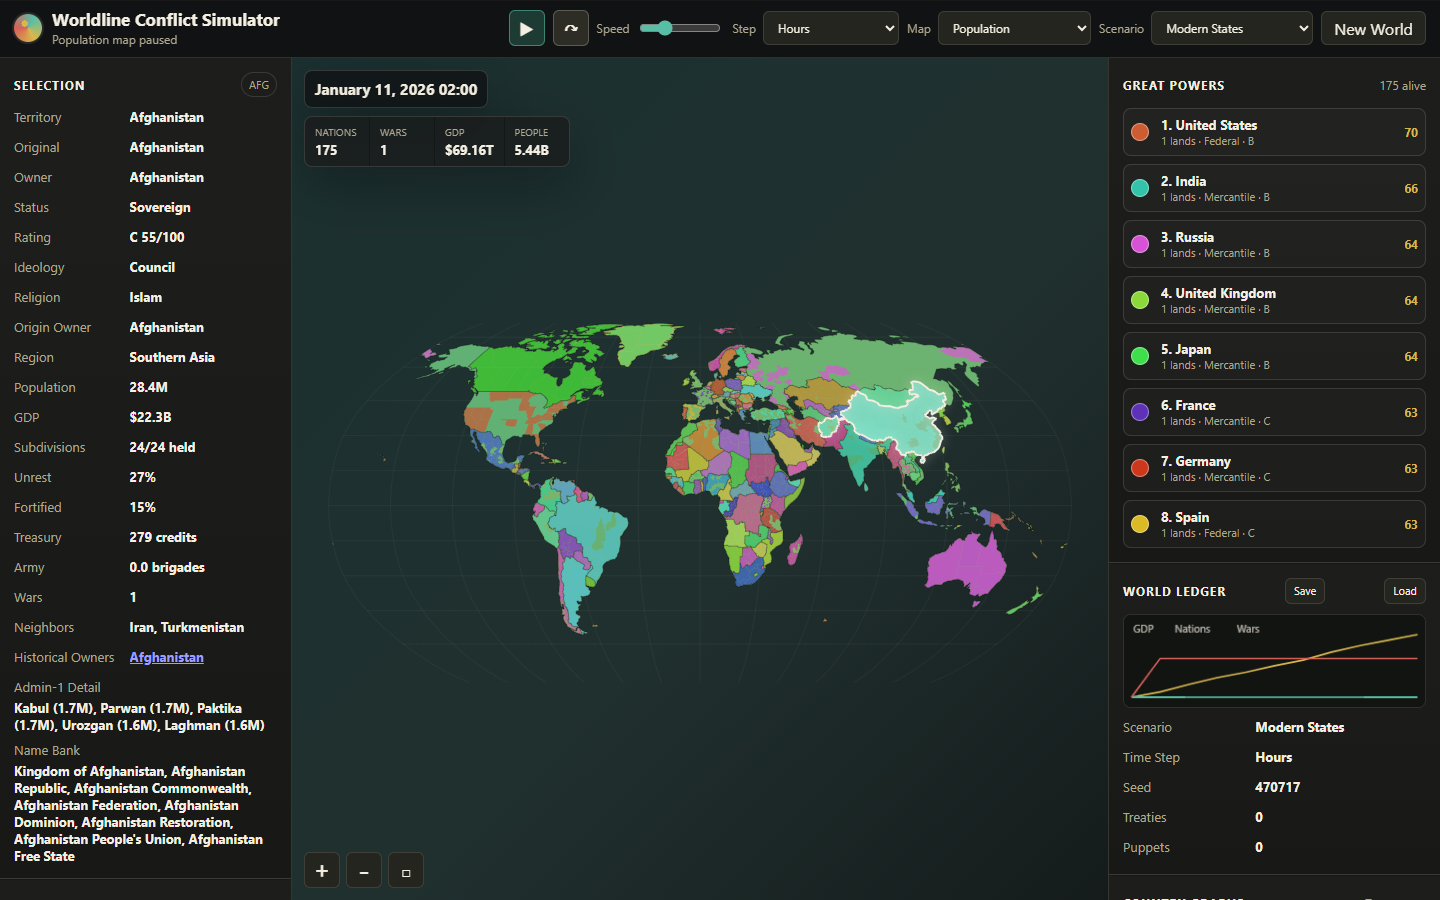
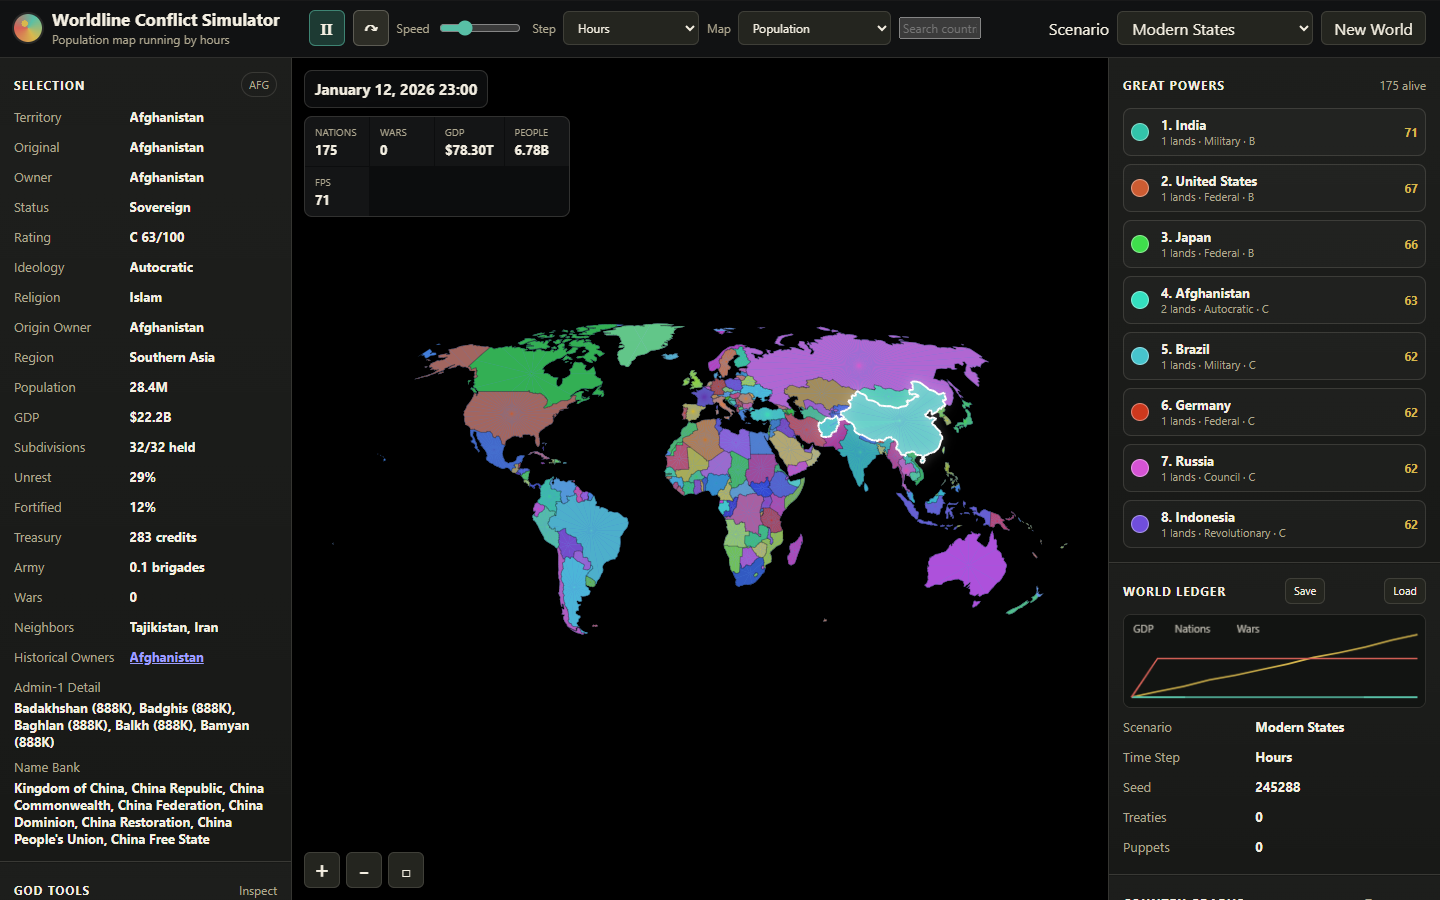
yussssss

diff --git a/src/main.js b/src/main.js
@@ -150,6 +150,7 @@ const MAP_MODES = {
   population: "Population",
   wars: "War Fronts",
   warAlliances: "Wars & Alliances",
+  landmass: "Landmass",
 };
 
 const ADMIN1_SUMMARY = window.WORLD_ADMIN1_SUMMARY || { byIso: {}, byIso3: {}, byAdmin: {}, meta: null };
@@ -243,7 +244,7 @@ const state = {
   hour: 0,
   elapsedHours: 0,
   lastHistoryHours: null,
-  running: true,
+  running: false,
   speed: 4,
   timeStepHours: 1,
   scenario: "historic",
@@ -264,6 +265,9 @@ const state = {
   animationHandle: null,
   animationTime: 0,
   lastMapAnimation: 0,
+  fps: 0,
+  fpsCounter: 0,
+  lastFpsTime: 0,
   // unit system removed
   segmentMapCache: null,
   segmentMapDirty: false,
@@ -915,6 +919,8 @@ function initializeGame({ scenario = state.scenario, seed = Math.floor(Math.rand
   if (scenario === "continental") buildContinentalScenario();
   if (scenario === "fractured") buildSeededScenario(74, "fractured");
   if (scenario === "rome") buildRomeScenario();
+  if (scenario === "paxromana") buildPaxRomanaScenario();
+  if (scenario === "romanschism") buildRomanSchismScenario();
   if (scenario === "medieval") buildMedievalScenario();
   if (scenario === "crusades") buildCrusadesScenario();
   if (scenario === "ww2") buildWW2Scenario();
@@ -1084,6 +1090,46 @@ function buildRomeScenario() {
   );
   createScenarioNation("Parthian Shahdom", territoriesWhere((territory) => /Iran|Iraq|Afghanistan|Pakistan|Turkmenistan/.test(territory.originalName)), "Autocratic", { capitalName: "Iran", ambition: 0.7 });
   createScenarioNation("Germanic Confederation", territoriesWhere((territory) => /Germany|Poland|Czechia|Netherlands|Denmark|Sweden|Norway/.test(territory.originalName)), "Council", { capitalName: "Germany" });
+  createScenarioNation("Nile Kingdoms", territoriesWhere((territory) => /Sudan|Ethiopia|Eritrea|Somalia/.test(territory.originalName)), "Mercantile", { capitalName: "Ethiopia" });
+  fillRemainingWithRegionalStates("Tribal");
+}
+
+function buildPaxRomanaScenario() {
+  // Pax Romana: Unified Roman Empire at its height
+  createScenarioNation(
+    "Roman Empire",
+    territoriesWhere((territory) =>
+      territory.continent === "Europe" &&
+      /Italy|France|Spain|Portugal|Greece|Croatia|Slovenia|Bosnia|Serbia|Montenegro|Albania|Macedonia|Bulgaria|Romania|Turkey|Germany|Poland|Czechia|Netherlands|Denmark|Sweden|Norway|United Kingdom|Ireland/.test(territory.originalName),
+    ).concat(territoriesWhere((territory) => /Northern Africa|Western Asia/.test(territory.region) && /Egypt|Libya|Tunisia|Algeria|Morocco|Syria|Jordan|Israel|Lebanon|Iraq/.test(territory.originalName))),
+    "Autocratic",
+    { capitalName: "Italy", ambition: 0.9, stability: 0.8, treasury: 800 },
+  );
+  createScenarioNation("Parthian Shahdom", territoriesWhere((territory) => /Iran|Afghanistan|Pakistan|Turkmenistan/.test(territory.originalName)), "Autocratic", { capitalName: "Iran", ambition: 0.6 });
+  createScenarioNation("Nile Kingdoms", territoriesWhere((territory) => /Sudan|Ethiopia|Eritrea|Somalia/.test(territory.originalName)), "Mercantile", { capitalName: "Ethiopia" });
+  fillRemainingWithRegionalStates("Tribal");
+}
+
+function buildRomanSchismScenario() {
+  // After the Great Schism: Western and Eastern Roman Empires
+  createScenarioNation(
+    "Western Roman Empire",
+    territoriesWhere((territory) =>
+      /Italy|France|Spain|Portugal|Germany|Poland|Czechia|Netherlands|Denmark|Sweden|Norway|United Kingdom|Ireland/.test(territory.originalName),
+    ),
+    "Autocratic",
+    { capitalName: "Italy", ambition: 0.7, stability: 0.5, treasury: 300 },
+  );
+  createScenarioNation(
+    "Eastern Roman Empire",
+    territoriesWhere((territory) =>
+      /Greece|Croatia|Slovenia|Bosnia|Serbia|Montenegro|Albania|Macedonia|Bulgaria|Romania|Turkey/.test(territory.originalName),
+    ).concat(territoriesWhere((territory) => /Northern Africa|Western Asia/.test(territory.region) && /Egypt|Libya|Tunisia|Algeria|Morocco|Syria|Jordan|Israel|Lebanon|Iraq/.test(territory.originalName))),
+    "Autocratic",
+    { capitalName: "Greece", ambition: 0.75, stability: 0.55, treasury: 400 },
+  );
+  createScenarioNation("Parthian Shahdom", territoriesWhere((territory) => /Iran|Afghanistan|Pakistan|Turkmenistan/.test(territory.originalName)), "Autocratic", { capitalName: "Iran", ambition: 0.7 });
+  createScenarioNation("Germanic Confederation", territoriesWhere((territory) => /Austria|Switzerland|Belgium|Luxembourg/.test(territory.originalName)), "Council", { capitalName: "Austria" });
   createScenarioNation("Nile Kingdoms", territoriesWhere((territory) => /Sudan|Ethiopia|Eritrea|Somalia/.test(territory.originalName)), "Mercantile", { capitalName: "Ethiopia" });
   fillRemainingWithRegionalStates("Tribal");
 }
@@ -2801,6 +2847,13 @@ function startVisualLoop() {
   if (state.animationHandle) window.cancelAnimationFrame(state.animationHandle);
   const frame = (time) => {
     state.animationTime = time / 1000;
+    // Calculate FPS
+    state.fpsCounter++;
+    if (time - state.lastFpsTime >= 1000) {
+      state.fps = state.fpsCounter;
+      state.fpsCounter = 0;
+      state.lastFpsTime = time;
+    }
     if (time - state.lastMapAnimation > 120 && hasActiveFrontVisuals()) {
       state.lastMapAnimation = time;
       renderMap();
@@ -3071,8 +3124,8 @@ function drawOcean(toCtx = ctx, toCanvas = canvas) {
 
 function drawGraticule(toCtx = ctx, toCanvas = canvas) {
   toCtx.save();
-  toCtx.strokeStyle = "rgba(255,255,255,0.065)";
-  toCtx.lineWidth = 0.6;
+  toCtx.strokeStyle = "rgba(255,255,255,0.12)";
+  toCtx.lineWidth = 1.2;
   for (let lon = -180; lon <= 180; lon += 30) {
     const path = new Path2D();
     for (let lat = -80; lat <= 85; lat += 4) {
@@ -3234,6 +3287,9 @@ function fillForTerritory(territory, mode) {
     if (owner.allies.size) return "#4d7ec4";
     if (owner.puppets.size || owner.overlordId) return "#d8b84d";
     return owner.color;
+  }
+  if (mode === "landmass") {
+    return "#8B4513"; // Brown color for land
   }
   return owner.color;
 }
@@ -4050,6 +4106,7 @@ function renderStats() {
     statChip("Wars", wars.length),
     statChip("GDP", formatMoney(gdp)),
     statChip("People", formatPopulation(population)),
+    statChip("FPS", state.fps),
   ].join("");
   els.ledgerStats.innerHTML = detailRows([
     ["Scenario", scenarioName(state.scenario)],
@@ -4072,6 +4129,8 @@ function scenarioName(id) {
     fractured: "Fractured Empires",
     ww2: "World War II",
     rome: "Roman Europe",
+    paxromana: "Pax Romana",
+    romanschism: "Roman Schism",
     medieval: "Medieval Realms",
     coldwar: "Cold War Blocs",
     napoleonic: "Napoleonic Europe",

diff --git a/index.html b/index.html
@@ -49,6 +49,7 @@
               <option value="population">Population</option>
               <option value="wars">War Fronts</option>
               <option value="warAlliances">Wars & Alliances</option>
+              <option value="landmass">Landmass</option>
             </select>
           </label>
           <label class="control-field compact">
@@ -62,6 +63,8 @@
               <option value="fractured">Fractured Empires</option>
               <option value="ww2">WWII</option>
               <option value="rome">Roman Europe</option>
+              <option value="paxromana">Pax Romana</option>
+              <option value="romanschism">Roman Schism</option>
               <option value="medieval">Medieval Realms</option>
               <option value="crusades">Crusades</option>
               <option value="coldwar">Cold War Blocs</option>

diff --git a/tools/smoke-check.js b/tools/smoke-check.js
@@ -230,7 +230,7 @@ async function main() {
     !initial.mapModes.includes("puppets") ||
     !initial.mapModes.includes("religions")
   ) process.exit(2);
-  if (!["rome", "medieval", "coldwar", "napoleonic"].every((scenario) => initial.scenarios.includes(scenario))) process.exit(11);
+  if (!["rome", "paxromana", "romanschism", "medieval", "coldwar", "napoleonic"].every((scenario) => initial.scenarios.includes(scenario))) process.exit(11);
   if (initial.universalNames < 100 || initial.territoriesWithFiveNames !== initial.territoryCount) process.exit(8);
   if (!forcedWar.started) process.exit(3);
   if (

diff --git a/README.md b/README.md
@@ -25,7 +25,7 @@ If the Windows `node` app alias is blocked, use any local static server from thi
 - Hour-based simulation clock with selectable hour, day, week, and month steps
 - AI nations with ideology, tax, conscription, stability, legitimacy, tech, treasury, armies, and ambition
 - Diplomacy with alliances, rivals, puppet states, relations, ceasefires, and peace
-- Alliance, puppet, religion, population, GDP, stability, unrest, and war-front map modes
+- Alliance, puppet, religion, population, GDP, stability, unrest, war-front, war-alliances, and landmass map modes
 - Border wars with animated front pressure, live contested borders, admin-1 occupation, conquest, capitulation, annexation, and puppet outcomes
 - Economy with GDP growth, infrastructure, trade access, debt pressure, war exhaustion, unrest, tribute, maintenance, and recruitment
 - Domestic ideological shifts driven by war exhaustion, debt, unrest, prosperity, diplomacy, and legitimacy
@@ -34,6 +34,7 @@ If the Windows `node` app alias is blocked, use any local static server from thi
 - Revolts and civil wars driven by unrest and instability
 - God tools for annexing, liberating, boosting, agitating, fortifying, stabilizing, funding rebels, puppeting, and inciting wars
 - Save/load through browser local storage
+- FPS counter in the top-left stats
 
 ## Scenarios
 
@@ -42,22 +43,15 @@ If the Windows `node` app alias is blocked, use any local static server from thi
 - Continental Blocs
 - Fractured Empires
 - Roman Europe
+- Pax Romana
+- Roman Schism
 - Medieval Realms
 - Cold War Blocs
 - Napoleonic Europe
 - WWII
 
 
-## TODO LIST
-- add more optimization and ways to increase frames per second
-- add fps counter
-- add world wraps around the sides of map and through poles
-- add faint longitude and latitude lines
-- two roman scenarios, one before the great schism during pax romana and one after
-- why can't countries in the carribean attack anyone or be attacked?
-- why does gdp fall during wars?
-- update everything in the README
-- add landmass graph
-- on app start, default to paused game
-- update world ledger graph
-- update some of the scenarios so that only the important parts of the map(for that specific scenario) is in play and cut off the rest of the map. For example, the medieval realms scenario should only have Europe as the map, not the whole globe.
+## Notes
+
+- Caribbean countries cannot attack or be attacked due to lack of land borders (they are islands).
+- GDP falls during wars due to reduced trade access, increased instability, and war exhaustion penalties in the economy simulation.